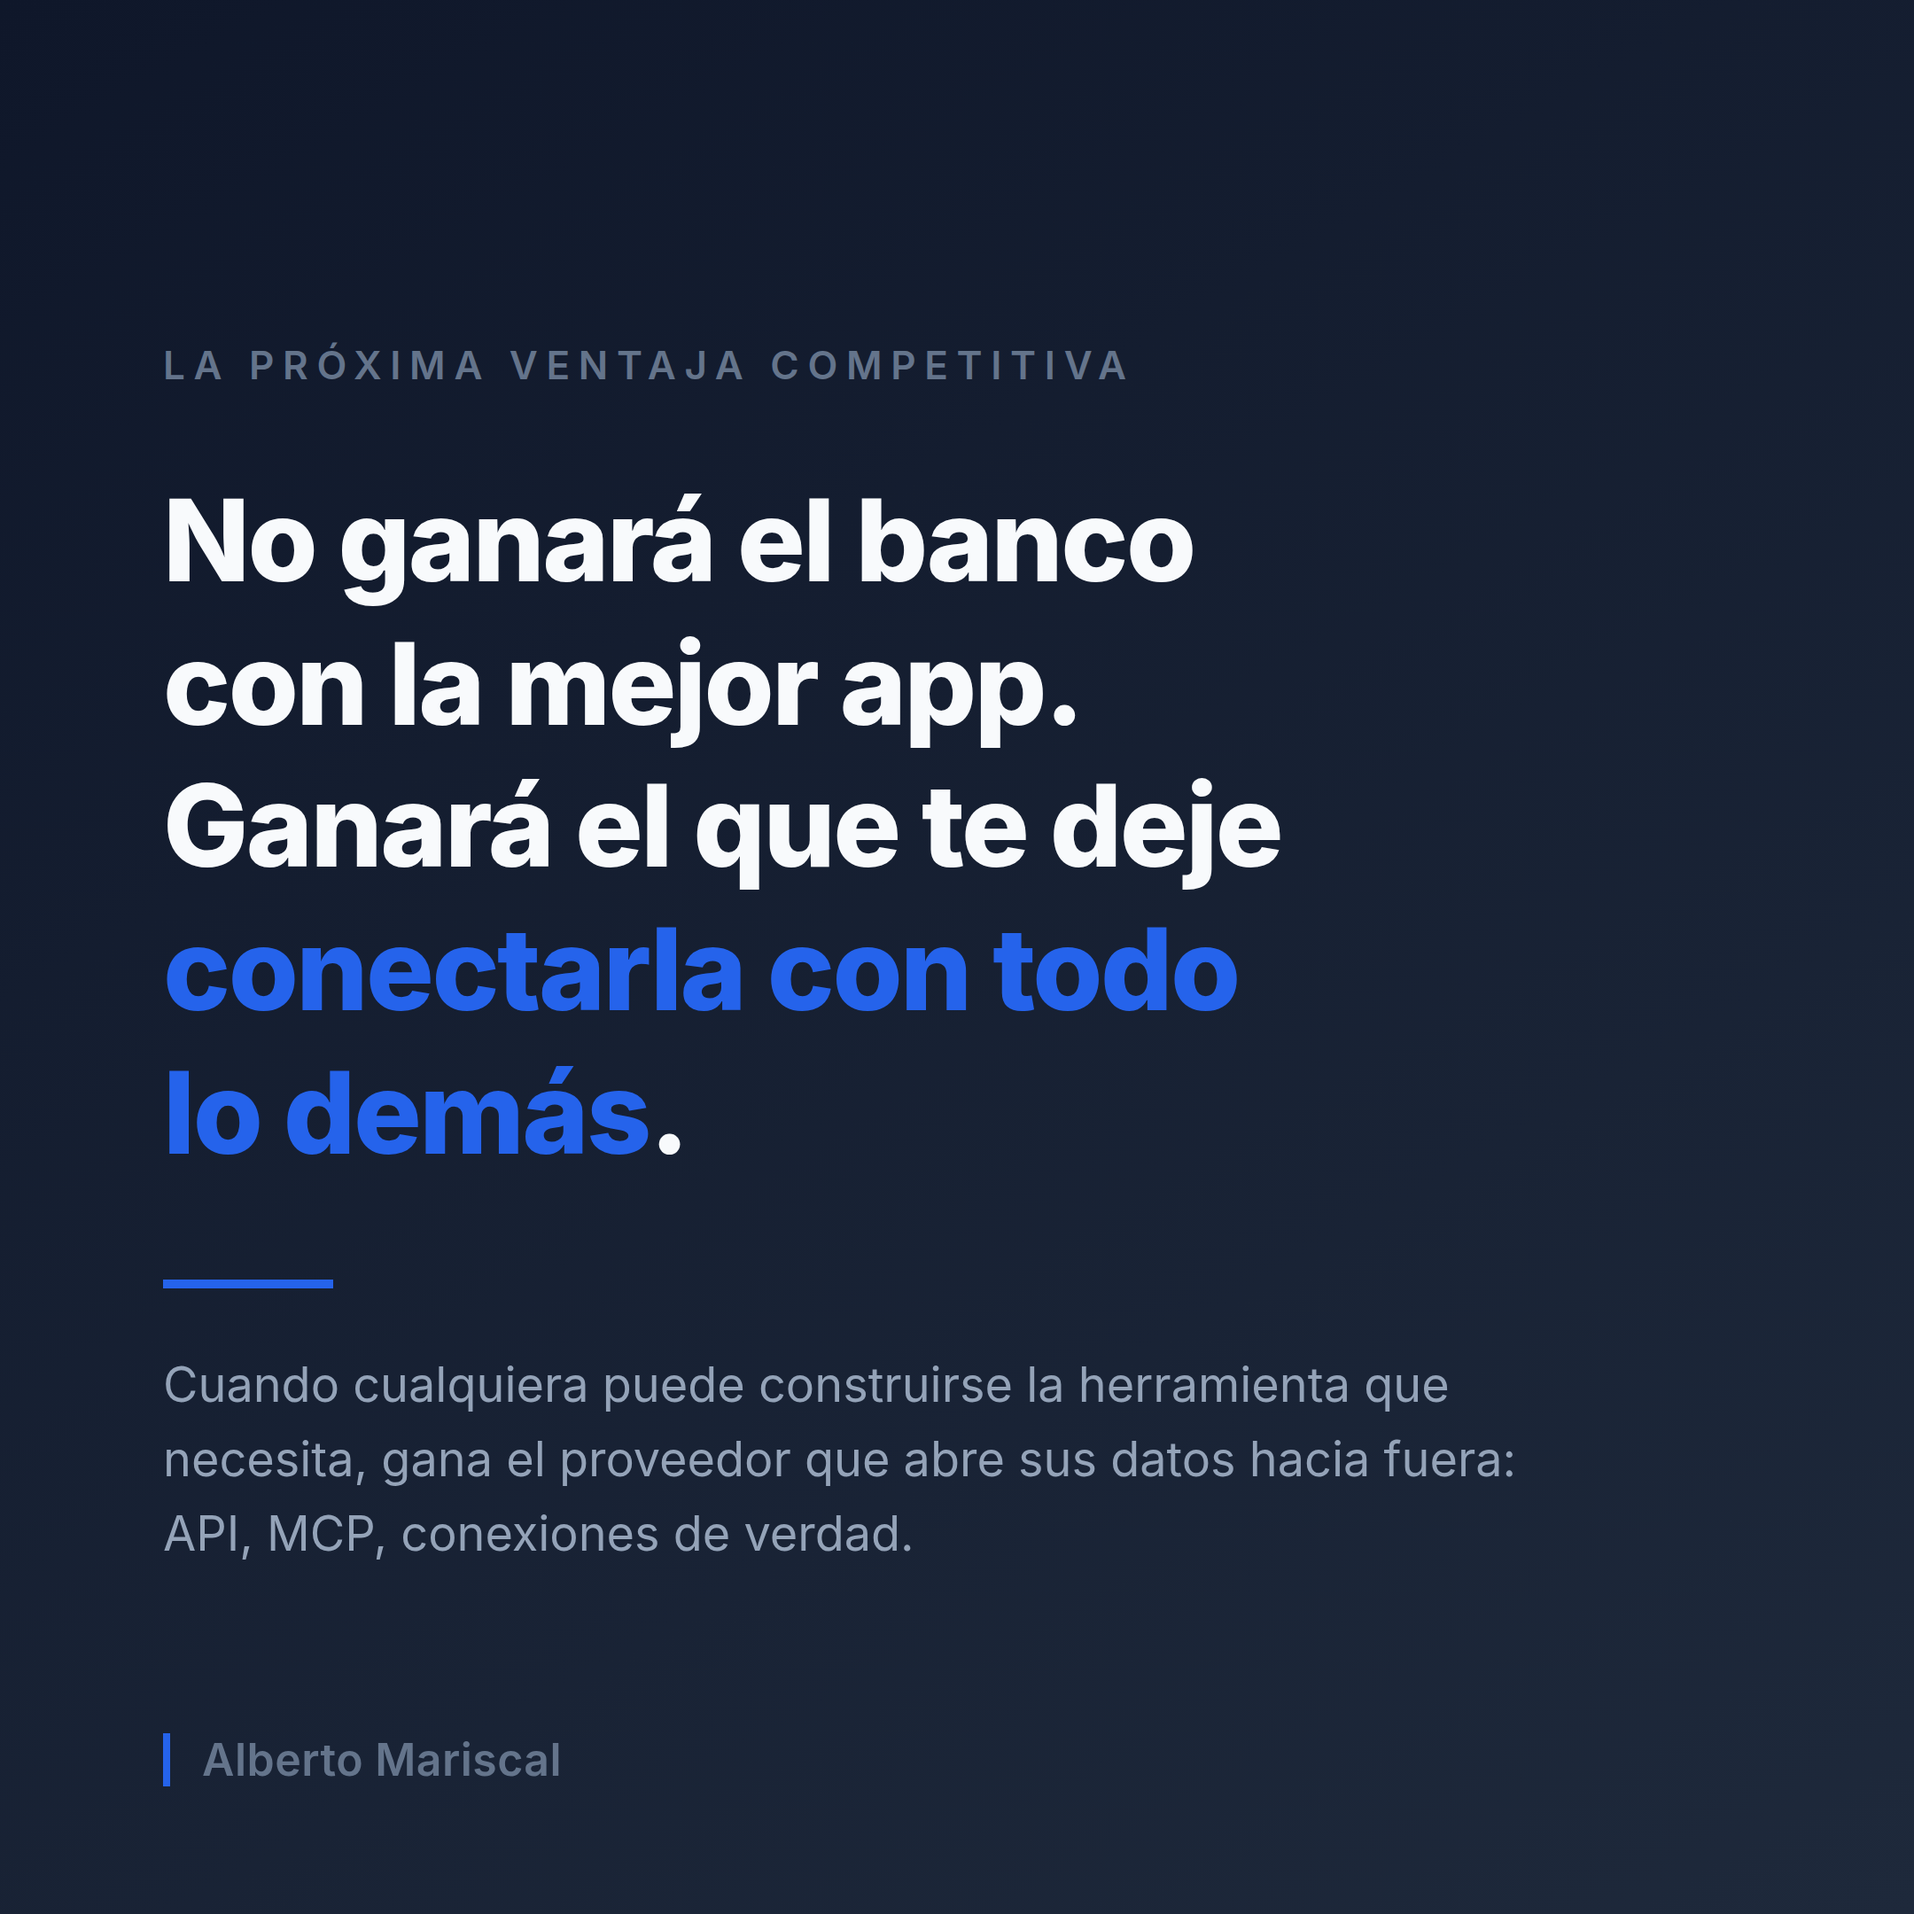
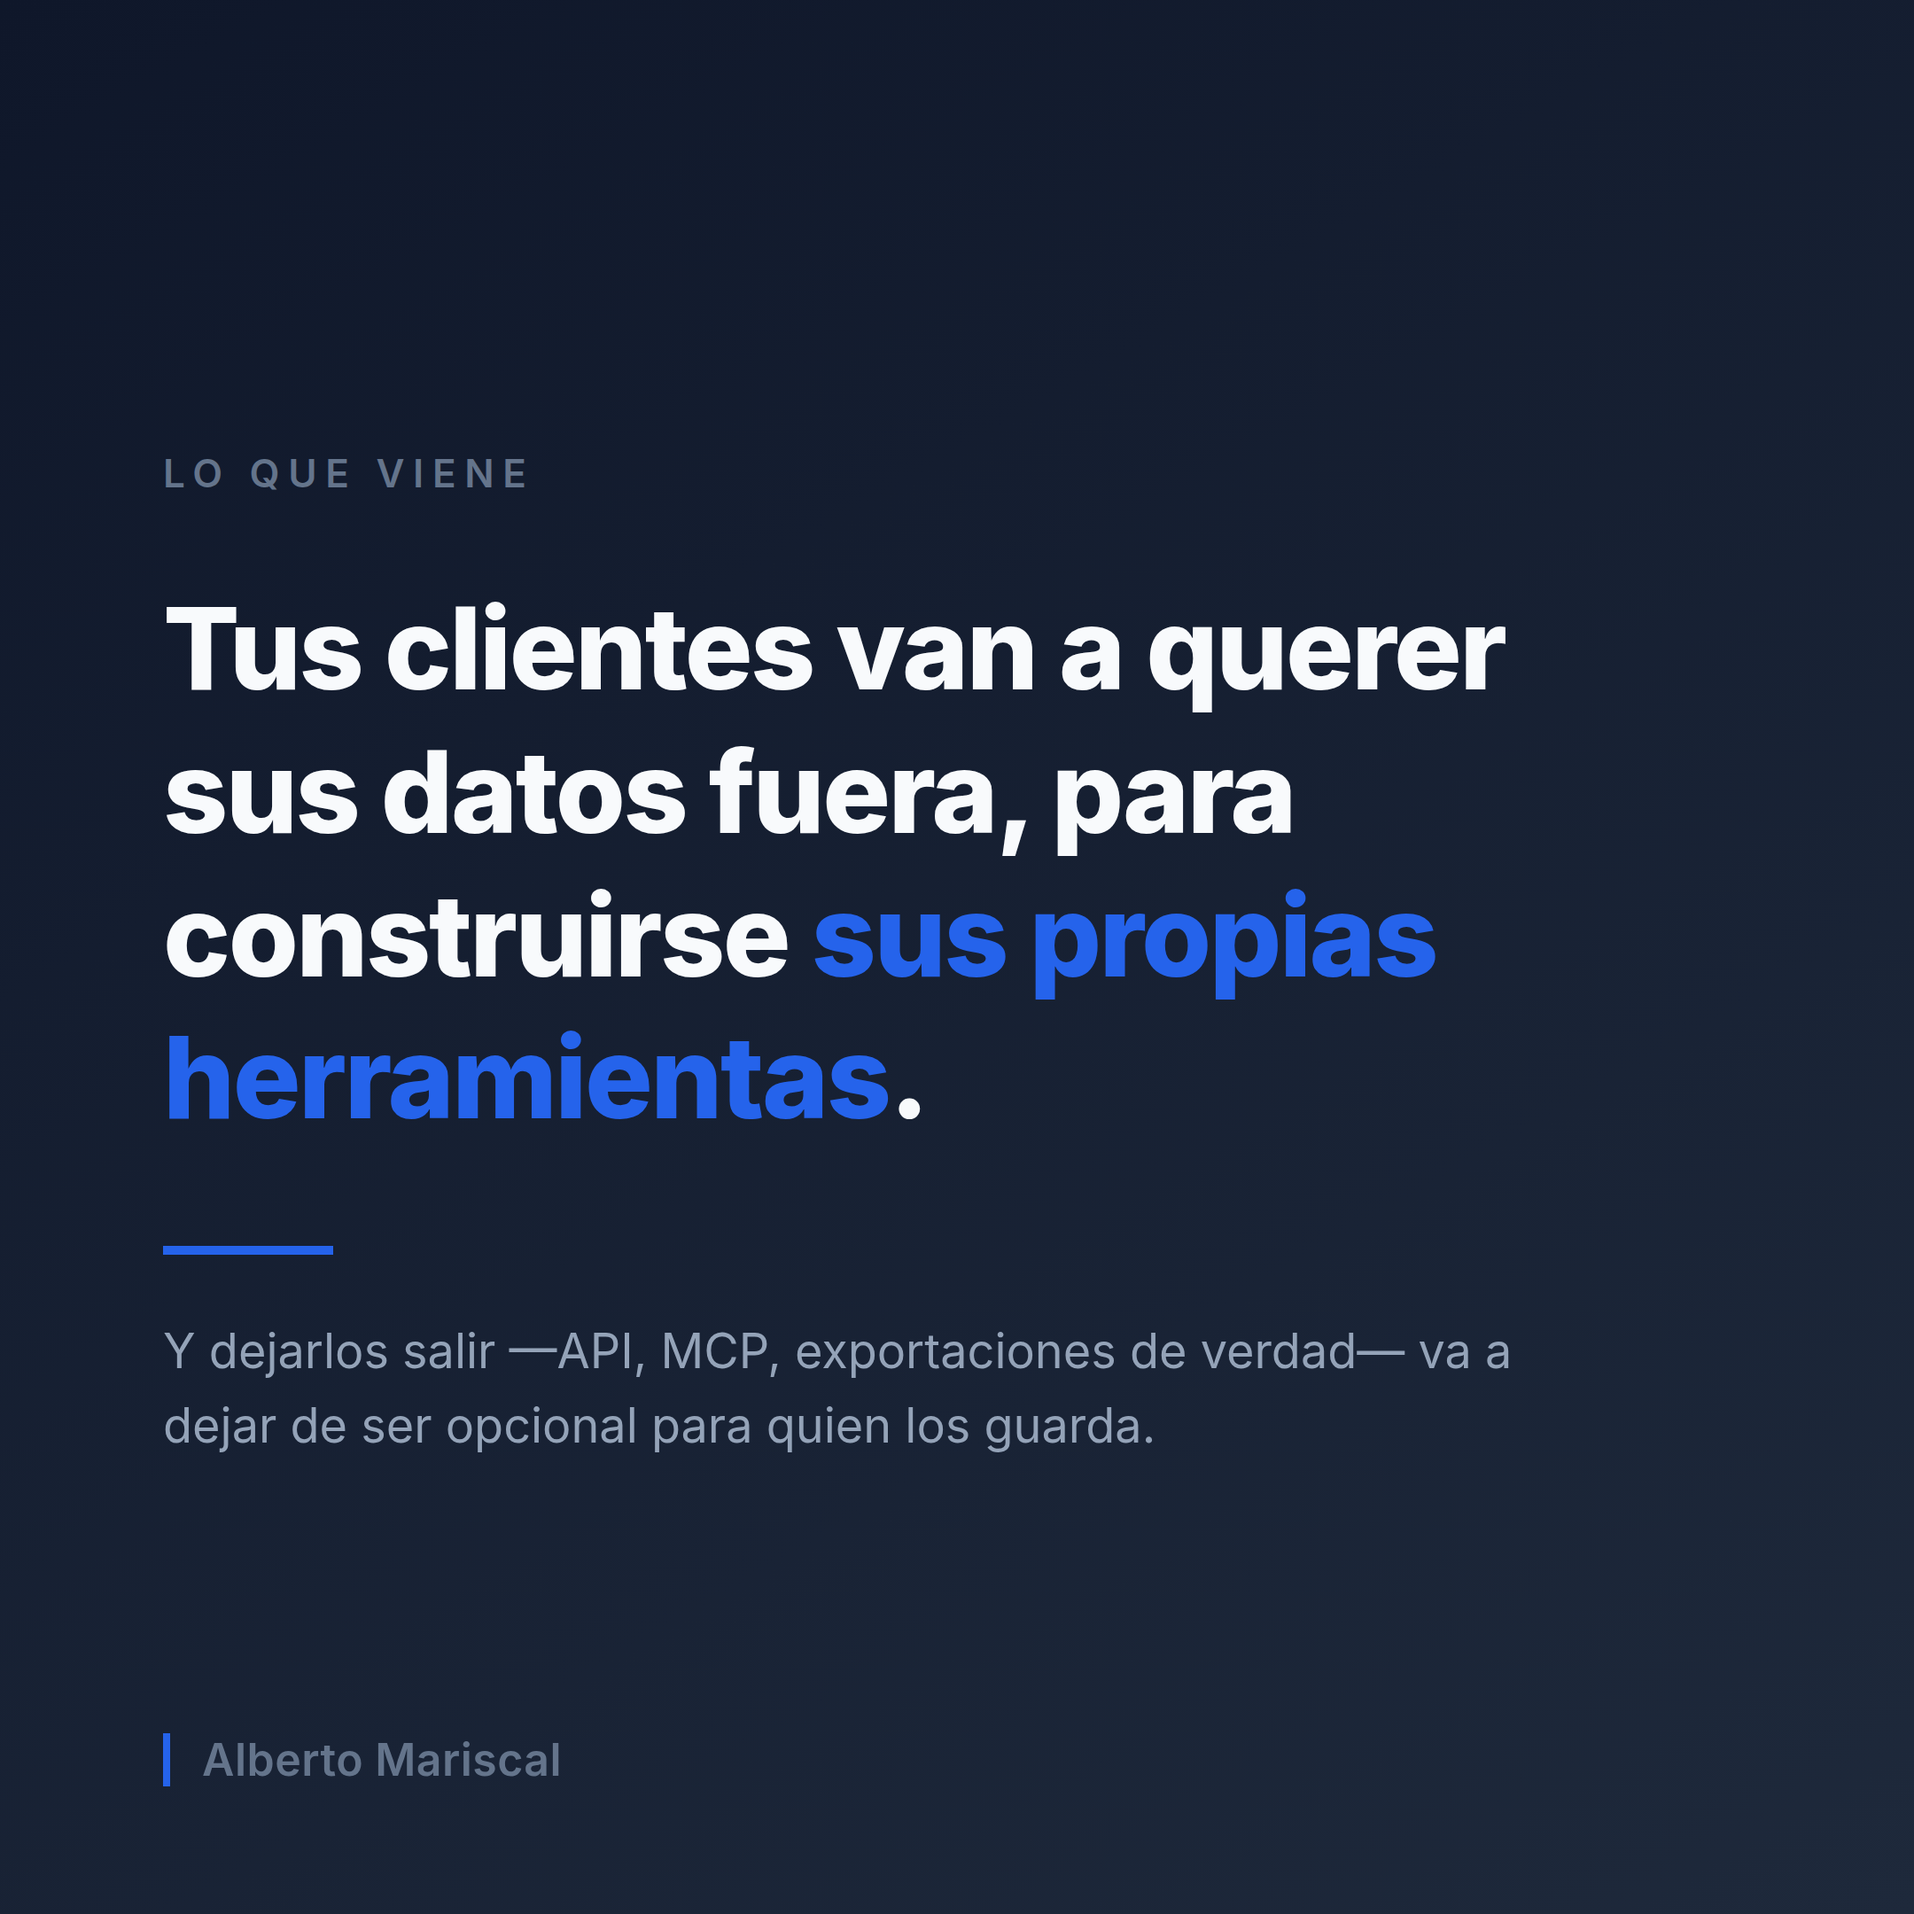
Post de APIs/MCPs: reenfocado a la demanda del cliente, no a la banca
El eje no es que gane un tipo de empresa, sino que cada vez mas clientes
van a querer sacar sus datos para montarse sus herramientas con IA, y las
empresas que los guardan tendran que permitir cada vez mas extraccion.

- Nueva frase: "Tus clientes van a querer sus datos fuera, para construirse
  sus propias herramientas".
- Parrafo de cierre del post reescrito en ese eje; Revolut queda como
  ejemplo de la tendencia, no como tema.
- Titular, calendario y registro de sesiones al dia.

Claude-Session: https://claude.ai/code/session_01SddKWTWgQHQW9oh6frJqEi

diff --git a/contenido-linkedin/posts/2026-08-06-apis-y-mcps/post.md b/contenido-linkedin/posts/2026-08-06-apis-y-mcps/post.md
@@ -1,8 +1,8 @@
-# Post — No ganará el que tenga la mejor app, sino el que te deje conectarla
+# Post — Cada vez más clientes van a querer sus datos fuera, y las empresas tendrán que adaptarse
 
 **Estado:** Listo para publicar
 **Fecha prevista:** jueves 2026-08-06 (el martes 04/08 va el post de "cada departamento con su propio reporting")
-**Línea de contenido:** Caso/evidencia real + reflexión. Segunda parte natural del post del DNI (23/07): si cualquiera puede construirse su herramienta, los proveedores de servicios (banca, seguros, gestorías, software de gestión) dejan de competir por su interfaz y pasan a competir por cuántas conexiones hacia fuera te permiten. Doble lectura: reclutador (Head of Data) lee criterio de arquitectura e integración; dueño de pyme lee un criterio de compra para su próximo proveedor. No es pitch de venta.
+**Línea de contenido:** Caso/evidencia real + reflexión. Segunda parte natural del post del DNI (23/07): si cualquiera puede construirse su herramienta con IA, cada vez más clientes van a querer sus datos fuera para hacerlo, y las empresas que los guardan tendrán que adaptarse y permitir cada vez más extracción. El foco es esa **tendencia de demanda**, no un sector concreto (no es un post sobre banca; Revolut es solo el ejemplo verificable). Doble lectura: reclutador (Head of Data) lee criterio de arquitectura e integración; dueño de pyme lee un criterio de compra para su próximo proveedor. No es pitch de venta.
 **Imágenes:** `frase.png` — tarjeta-cita sobre fondo azul noche, siguiendo `contenido-linkedin/guia-estilo-visual.md`.
 **Proyecto referenciado:** `almariscal/seguimiento_economico` — herramienta local para unificar inversiones repartidas en varias plataformas. **Repositorio privado: no se enlaza** (contiene la estructura de sus finanzas personales). A diferencia del post del DNI, aquí no hay enlace en comentarios; el post se sostiene solo con la historia.
 **Privacidad (decisión de Alberto, 30/07):** no se dan detalles de las plataformas concretas que usa — ni nombres, ni cuántas, ni el desglose por tipo. Se habla de "varias plataformas" y de "cada entidad", sin más. Mantener esta regla en futuras versiones del post.
@@ -24,7 +24,7 @@ Con una excepción: hace unas semanas Revolut conectó su plataforma de cripto a
 
 Lo relevante no es el trading con IA. Es la decisión de fondo: Revolut ha aceptado que su app deje de ser el único sitio desde el que se usan sus datos.
 
-Y creo que ahí está la siguiente competición. Si hoy cualquiera se monta en una tarde la herramienta que necesita, tu banco, tu aseguradora o tu gestoría ya no ganan por tener la mejor pantalla. Ganan por dejarte conectar lo que guardan con todo lo demás.
+Y creo que ahí está lo que viene. Si hoy cualquiera se monta en una tarde la herramienta que necesita, cada vez más clientes van a querer sus datos fuera: para cruzarlos con otros, para automatizar algo, para poder preguntarle a un asistente. Y las empresas que los guardan van a tener que adaptarse y dejar salir cada vez más.
 
 Y esto no va de cripto, va de tu empresa. Piensa en el ERP, el CRM, el TPV, el programa de la gestoría. ¿Cuántos te dejan sacar tus datos sin que alguien los copie a mano en un Excel el último viernes de mes? Ese trabajo manual es un impuesto que pagas todos los meses y no aparece en ninguna factura.
 

diff --git a/seguimiento/registro-sesiones.md b/seguimiento/registro-sesiones.md
@@ -230,5 +230,6 @@ A partir de aquí el trabajo es **ejecución**, no diagnóstico: conseguir el pi
 ### 2026-07-30 (cont.) — Tres correcciones de Alberto sobre el post de APIs/MCPs
 - **Longitud**: el borrador era demasiado largo para lo que se lee en LinkedIn. Recortado ~20 % quitando redundancias, sin tocar la estructura (historia → fricción → contrapunto Revolut → salto a la pyme → pregunta).
 - **Privacidad (regla nueva, aplicable a futuros posts)**: nada de detallar las plataformas donde tiene el dinero — ni nombres, ni cuántas, ni el desglose por tipo (brokers/banco/exchange/wallet). El post habla de "varias plataformas" y "cada entidad". Anotado también en la cabecera del `post.md` para que no se reintroduzca al reeditar.
-- **La frase de la imagen cambia de sujeto**: no va del software, va de **las empresas de servicios** — la banca y similares. La que gane será la que permita más conexiones hacia fuera, porque es sobre la que el cliente puede construirse lo que quiera. Nueva tarjeta: *"No ganará el banco con la mejor app. Ganará el que te deje **conectarla con todo lo demás**"*. El cuerpo del post se ajustó para aterrizar en esa misma idea ("tu banco, tu aseguradora o tu gestoría ya no ganan por tener la mejor pantalla").
-- Titular del `post.md` actualizado en consecuencia; `calendario.md` al día.
+- **La frase de la imagen cambia de sujeto (dos vueltas)**: primero se probó centrarla en las empresas de servicios / la banca ("No ganará el banco con la mejor app…"), pero Alberto corrigió que **no es un post sobre banca**. El eje correcto es la **tendencia de demanda**: cada vez más clientes van a querer sacar sus datos para montarse sus herramientas con IA, y las empresas que los guardan tendrán que adaptarse y permitir cada vez más extracción. Tarjeta final: *"Tus clientes van a querer sus datos fuera, para construirse **sus propias herramientas**"*, con bajada *"Y dejarlos salir —API, MCP, exportaciones de verdad— va a dejar de ser opcional para quien los guarda"*.
+- **Cuerpo del post reescrito en ese eje**: el párrafo de cierre pasa de "quién gana la competición" a "cada vez más clientes van a querer sus datos fuera […] y las empresas que los guardan van a tener que adaptarse y dejar salir cada vez más". Revolut queda como el ejemplo verificable de la tendencia, no como el tema.
+- Titular del `post.md` y `calendario.md` actualizados en consecuencia.

diff --git a/contenido-linkedin/calendario.md b/contenido-linkedin/calendario.md
@@ -9,7 +9,7 @@ Dos tablas: **Backlog** (borradores listos o en curso, sin publicar todavía) e 
 | Estado | Título/Tema | Carpeta | Fecha prevista | Notas |
 |---|---|---|---|---|
 | Listo | Las mejores decisiones nacen de centralizar y relacionar los datos, no de analizar por separado | `posts/2026-07-16-herramientas-desconectadas/` | 2026-08-04 (mar) | **Replanificado**: no se publicó el 16/07; Alberto lo lleva a la semana del 3 de agosto. El nombre de la carpeta conserva la fecha original (no se renombra para no romper referencias). Reformulado dos veces tras feedback: (1) evitar sonar a queja de la empresa actual, (2) precisar que la visión estratégica sale de centralizar y relacionar datos entre departamentos, no solo de "conectar" |
-| Listo | No ganará el que tenga la mejor app, sino el que te deje conectarla (APIs y MCPs) | `posts/2026-08-06-apis-y-mcps/` | 2026-08-06 (jue) | Caso/evidencia real: `almariscal/seguimiento_economico` (herramienta propia para unificar inversiones). Segunda parte del post del DNI: si cualquiera se construye su herramienta, los proveedores de servicios (banca, seguros, gestorías) compiten por cuántas conexiones hacia fuera permiten. Contrapunto verificado: Revolut abrió Revolut X a asistentes de IA vía MCP (anuncio 10/07/2026). **Sin enlace** (repo privado) y **sin detalle de las plataformas** que usa Alberto. Incluye `frase.png` (tarjeta-cita) |
+| Listo | Cada vez más clientes van a querer sus datos fuera, y las empresas tendrán que adaptarse (APIs y MCPs) | `posts/2026-08-06-apis-y-mcps/` | 2026-08-06 (jue) | Caso/evidencia real: `almariscal/seguimiento_economico` (herramienta propia para unificar inversiones). Segunda parte del post del DNI: si cualquiera se construye su herramienta con IA, la demanda de sacar los datos crece y quien los guarda tendrá que permitir cada vez más extracción. Contrapunto verificado: Revolut abrió Revolut X a asistentes de IA vía MCP (anuncio 10/07/2026). **Sin enlace** (repo privado) y **sin detalle de las plataformas** que usa Alberto. Incluye `frase.png` (tarjeta-cita) |
 | Idea sin desarrollar | Herramientas gratis/baratas de IA para automatizar tareas en una pyme (n8n, Zapier free, Claude/ChatGPT, Canva IA) | — | — | Salido de una búsqueda real de prueba (2026-07-12) — pendiente de convertir en post |
 
 ## Inventario (publicado)
